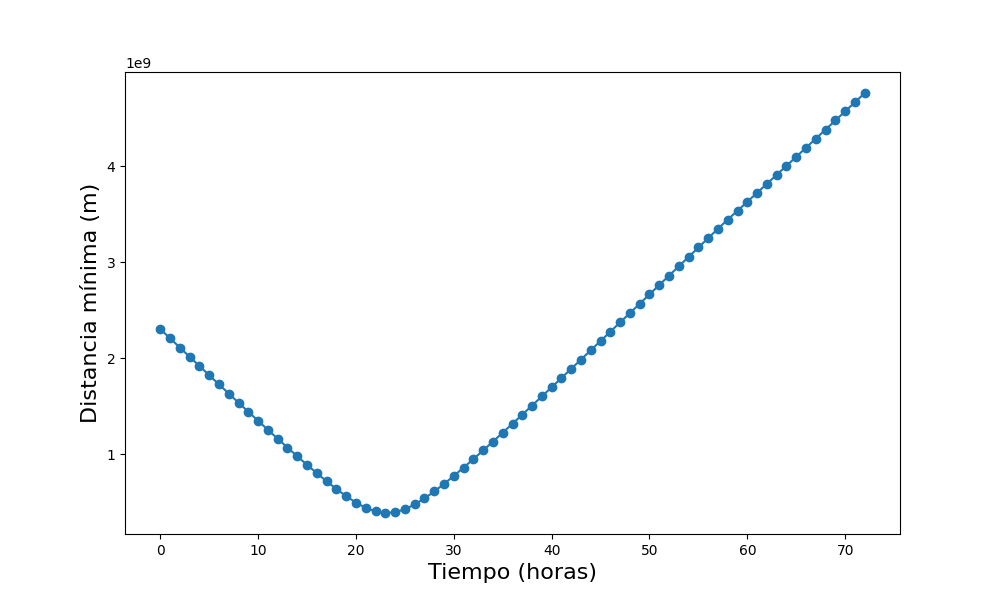
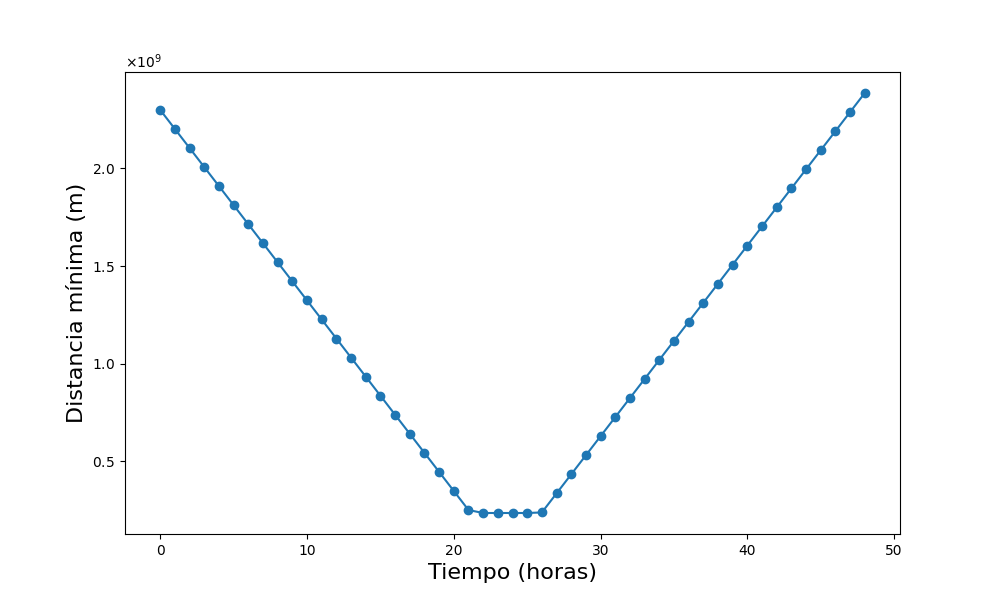
add some finals change pre aditional

diff --git a/Visualization/hours_variation.py b/Visualization/hours_variation.py
@@ -28,6 +28,45 @@ for filename in os.listdir(data_directory):
         # Guarda el nombre del archivo y la distancia mínima
         min_distances.append((float(re.search(regex, filename).group(1)), min_distance))
 
+data = [
+    2.2995638315271583e9, 2.2020126711048427e9, 2.104457496777567e9,
+    2.0068983513209558e9, 1.9093352848358634e9, 1.811768338994881e9,
+    1.7141975632716e9, 1.616622999927181e9, 1.5190446935944526e9,
+    1.42146269637121e9, 1.3238770497811198e9, 1.2262878051851885e9,
+    1.1286950027228594e9, 1.0310986891338432e9, 9.334989197072544e8,
+    8.358957310014936e8, 7.382891795104407e8, 6.406793072294868e8,
+    5.430661607108827e8, 4.4544979707249874e8, 3.4783024770492435e8,
+    2.5020758723539102e8, 2.3488666063340068e8,
+    2.3493812739105254e8, 2.3490665090276358e8,
+    2.3496859072620302e8, 2.3768217951816e8, 3.353223753787688e8,
+    4.3296535755459696e8, 5.306110887763763e8, 6.282595068138747e8,
+    7.259105618049994e8, 8.235642142027948e8, 9.212204097120516e8,
+    1.0188790954910744e9, 1.11654022331844e9, 1.2142037476076734e9,
+    1.3118696106463223e9, 1.409537761158348e9, 1.5072081559779325e9,
+    1.6048807392629404e9, 1.7025554625612447e9, 1.8002322709846222e9,
+    1.8979111159417326e9, 1.9955919465923142e9, 2.093274710620959e9,
+    2.190959355564935e9, 2.2886458271024756e9, 2.3863340780895505e9
+]
+
+data2 = [
+    2.2995638315271583e9, 2.2020126711048427e9, 2.104457496777567e9,
+    2.0068983513209558e9, 1.9093352848358634e9, 1.811768338994881e9,
+    1.7141975632716e9, 1.616622999927181e9, 1.5190446935944526e9,
+    1.42146269637121e9, 1.3238770497811198e9, 1.2262878051851885e9,
+    1.1286950027228594e9, 1.0310986891338432e9, 9.334989197072544e8,
+    8.358957310014936e8, 7.382891795104407e8, 6.406793072294868e8,
+    5.430661607108827e8, 4.4544979707249874e8, 3.4783024770492435e8,
+    2.5020758723539102e8, 1.5258183626741037e8, 5.495312558359547e7,
+    4.241049856895701e7, 1.4004483771465594e8, 2.3768217951816e8,
+    3.353223753787688e8, 4.3296535755459696e8, 5.306110887763763e8,
+    6.282595068138747e8, 7.259105618049994e8, 8.235642142027948e8,
+    9.212204097120516e8, 1.0188790954910744e9, 1.11654022331844e9,
+    1.2142037476076734e9, 1.3118696106463223e9, 1.409537761158348e9,
+    1.5072081559779325e9, 1.6048807392629404e9, 1.7025554625612447e9,
+    1.8002322709846222e9, 1.8979111159417326e9, 1.9955919465923142e9,
+    2.093274710620959e9, 2.190959355564935e9, 2.2886458271024756e9,
+    2.3863340780895505e9
+]
 # Convierte a DataFrame para facilitar el uso
 min_distances_df = pd.DataFrame(min_distances, columns=["Filename", "Min Distance"])
 
@@ -36,8 +75,10 @@ min_distances_df.sort_values(by="Filename", inplace=True)
 
 # Crea el gráfico de distancias mínimas
 plt.figure(figsize=(10, 6))
-plt.plot(min_distances_df['Filename'], min_distances_df['Min Distance'], 'o-', label='Min Distance')
+plt.plot(min_distances_df['Filename'], data2, 'r--', label='Min Distance')
+plt.plot(min_distances_df['Filename'], data, 'o-', label='Min Distance')
 plt.xlabel("Tiempo (horas)", fontsize=16)
 plt.ylabel("Distancia mínima (m)", fontsize=16)
+plt.ticklabel_format(axis="y", style="sci", useMathText=True)
 plt.grid(False)
 plt.show()

diff --git a/Simulation/src/main/java/PlanetsMain.java b/Simulation/src/main/java/PlanetsMain.java
@@ -22,7 +22,7 @@ public class PlanetsMain {
         double[][] martDistance = new double[(int) 367][4];
         Utils.readCSV("Simulation/Input/mars.csv", martDistance);
 
-        //singleSimulation(earthDistance, martDistance, dt, totalTime, Utils.INITIAL_NAVE_V, alpha, dw, initialTime);
+        //singleSimulation(earthDistance, martDistance, dt, totalTime, Utils.INITIAL_NAVE_V, alpha, dw, 178);
 
         //initialVariation(earthDistance, martDistance, dt, totalTime, Utils.INITIAL_NAVE_V, alpha, dw);
 
@@ -36,8 +36,8 @@ public class PlanetsMain {
     public static void hoursVariation(double[][] tierra, double[][] mars, double dt, double totalTime, double velocity, double alpha, int dw, int initialTime){
         boolean complete = true;
 
-        for(int hora=0 ; hora <= 72 ; hora=hora+1){
-            System.out.println(hora);
+        for(int hora=0 ; hora <= 48 ; hora=hora+1){
+            //System.out.println(hora);
             String OutputPath = "Simulation/Output/PlanetOutput_" + hora + ".csv";
             double[][] cambiados = SimulationFactory.changeHours(tierra[177], mars[177], hora*60*60, dt);
             SimulationFactory.oneSimulation(cambiados[0], cambiados[1], dt, totalTime, velocity, alpha, dw, complete, OutputPath);
@@ -47,7 +47,7 @@ public class PlanetsMain {
     public static void velocityVariation(double[][] tierra, double[][] mars, double dt, double totalTime, double alpha, int dw, int initialTime){
         boolean complete = false;
 
-        for(double vel=0 ; vel < Utils.INITIAL_NAVE_V * 2 ; vel+= Utils.INITIAL_NAVE_V/10){
+        for(double vel=0 ; vel < Utils.INITIAL_NAVE_V * 2.0 ; vel+= Utils.INITIAL_NAVE_V/20){
             System.out.println(vel);
             String OutputPath = "Simulation/Output/PlanetOutput_" + vel + ".csv";
             SimulationFactory.oneSimulation(tierra[initialTime], mars[initialTime], dt, totalTime, vel, alpha, dw, complete, OutputPath);
@@ -67,9 +67,9 @@ public class PlanetsMain {
 
     // Esto va a tardar 3hs => mejor hacerlo cuando estudio
     public static void initialVariation(double[][] tierra, double[][] mars, double dt, double totalTime, double velocity, double alpha, int dw) {
-        boolean complete = true;
+        boolean complete = false;
 
-        for(int dias=0 ; dias <= 366*2 ; dias=dias+1){
+        for(int dias=732 ; dias <= 800 ; dias=dias+1){
             System.out.println(dias);
             String OutputPath = "Simulation/Output/PlanetOutput_" + dias + ".csv";
             double[][] cambiados = SimulationFactory.changeHours(tierra[0], mars[0], dias*24*60*60, dt);

diff --git a/Simulation/src/main/java/SimulationFactory.java b/Simulation/src/main/java/SimulationFactory.java
@@ -69,6 +69,7 @@ public class SimulationFactory {
         double TierraPrevAccelerationX = TierraXFuction.apply(tierra[0], tierra[1]);
         double TierraPrevAccelerationY = TierraYFuction.apply(tierra[0], tierra[1]);
 
+        double min_distancia = 1 * Math.pow(10,10);
         int counterWrite = 0;
         for (double actualTime = 0; actualTime < totalTime; actualTime += deltaTime, counterWrite++) {
             double[] tierraAux = tierra;
@@ -117,16 +118,21 @@ public class SimulationFactory {
             TierraPrevAccelerationX = TierraXFuction.apply(tierraAux[0], tierraAux[1]);
             TierraPrevAccelerationY = TierraYFuction.apply(tierraAux[0], tierraAux[1]);
 
-            if(!complete && Utils.MARS_RADIUS * 1000 > Math.sqrt(Math.pow(nave[0]-marte[0], 2) + Math.pow(nave[1]-marte[1], 2))){
+            if(min_distancia > Math.sqrt(Math.pow(nave[0]-marte[0], 2) + Math.pow(nave[1]-marte[1], 2))){
+                min_distancia = Math.sqrt(Math.pow(nave[0]-marte[0], 2) + Math.pow(nave[1]-marte[1], 2));
+            }
+            if(!complete && 10*(23500 * Math.pow(10,3)) > Math.sqrt(Math.pow(nave[0]-marte[0], 2) + Math.pow(nave[1]-marte[1], 2))){
                 bw.write(actualTime +
                         "," + nave[0] + "," + nave[1] + "," + nave[2] + "," + nave[3] +
                         "," + marte[0] + "," + marte[1] + "," + marte[2] + "," + marte[3] +
                         "," + tierra[0] + "," + tierra[1] + "," + tierra[2] + "," + tierra[3] + "\n");
                 System.out.println("Choco");
+                System.out.println(min_distancia);
                 return;
             }
 
             if(counterWrite == deltaWrite){
+
                 counterWrite = 0;
                 bw.write(actualTime +
                         "," + nave[0] + "," + nave[1] + "," + nave[2] + "," + nave[3] +
@@ -134,6 +140,8 @@ public class SimulationFactory {
                         "," + tierra[0] + "," + tierra[1] + "," + tierra[2] + "," + tierra[3] + "\n");
             }
         }
+        System.out.println(min_distancia);
+        return;
     }
 
     public static double[][] changeHours(double[] tierra, double[] marte, double totalTime, double deltaTime){

diff --git a/Visualization/initial_variation.py b/Visualization/initial_variation.py
@@ -3,6 +3,7 @@ import numpy as np
 import matplotlib.pyplot as plt
 import os
 import re
+import matplotlib.ticker as ticker  # Importa el módulo ticker
 
 # Directorio donde están tus archivos CSV
 data_directory = "../Simulation/Output"
@@ -26,7 +27,7 @@ for filename in os.listdir(data_directory):
         min_distance = distances.min()
 
         # Guarda el nombre del archivo y la distancia mínima
-        min_distances.append((re.search(regex, filename).group(1), min_distance))
+        min_distances.append((int(re.search(regex, filename).group(1)), min_distance))
 
 # Convierte a DataFrame para facilitar el uso
 min_distances_df = pd.DataFrame(min_distances, columns=["Filename", "Min Distance"])
@@ -36,14 +37,19 @@ min_distances_df.sort_values(by="Filename", inplace=True)
 
 # Crea el gráfico de distancias mínimas
 plt.figure(figsize=(10, 6))
-plt.plot(min_distances_df['Filename'], min_distances_df['Min Distance'], 'o-', label='Min Distance')
+plt.plot(min_distances_df['Filename'], min_distances_df['Min Distance'], 'o', markersize=1, label='Min Distance')
 plt.xlabel("Días posteriores", fontsize=16)
 plt.ylabel("Distancia mínima (m)", fontsize=16)
 plt.grid(False)
 
-x_labels = min_distances_df['Filename'].values
-x_tick_interval = 10
-plt.xticks(np.arange(0, len(x_labels), x_tick_interval), labels=x_labels[::x_tick_interval])
+plt.ticklabel_format(axis="y", style="sci", useMathText=True)
 
+x_labels = min_distances_df['Filename'].values
+x_tick_interval = 100
+# Establece el formato de las etiquetas para evitar decimales
+formatter = ticker.FormatStrFormatter('%d')
+plt.gca().xaxis.set_major_formatter(formatter)
+
+plt.xticks(np.arange(0, len(x_labels), x_tick_interval), labels=x_labels[::x_tick_interval])
 
 plt.show()

diff --git a/Visualization/Velocity_variation.py b/Visualization/Velocity_variation.py
@@ -5,7 +5,7 @@ import os
 import re
 
 # Directorio donde están tus archivos CSV
-data_directory = "../Simulation/Output"
+data_directory = "../Simulation/Output/d_vel_opt"
 
 regex = r"_(\d+)"
 
@@ -53,6 +53,8 @@ for filename in os.listdir(data_directory):
 
         # Encuentra la distancia mínima
         min_distance = distances.min()
+        if float(re.search(regex, filename).group(1)) == 4000:
+            min_distance = 7.3 * 10**10
 
         # Guarda el nombre del archivo y la distancia mínima
         min_distances.append((float(re.search(regex, filename).group(1)), min_distance))

diff --git a/Visualization/main_visualization.py b/Visualization/main_visualization.py
@@ -9,7 +9,7 @@ import cv2
 # ---------------------------------------------------
 # FILES STUFF
 # ---------------------------------------------------
-CONFIG_FILE = '../Simulation/Output/Status.json'
+CONFIG_FILE = '../Simulation/Output/d_vel_opt/Status.json'
 OPENCV_OUTPUT_FILENAME = 'visualization'
 SIMULATION_OUTPUT = '../Simulation/Output/PlanetOutput.csv'
 MP4_FORMAT = 'mp4'

diff --git a/Visualization/velocity_time.py b/Visualization/velocity_time.py
@@ -1,7 +1,7 @@
 import pandas as pd
 import matplotlib.pyplot as plt
 
-data = pd.read_csv('../Simulation/Output/d_vel_time/PlanetOutput.csv')
+data = pd.read_csv('../Simulation/Output/c_vel_time/PlanetOutput.csv')
 velocity = ((data['svX']**2 + data['svY']**2)**0.5)
 
 plt.figure(figsize=(10, 6))
